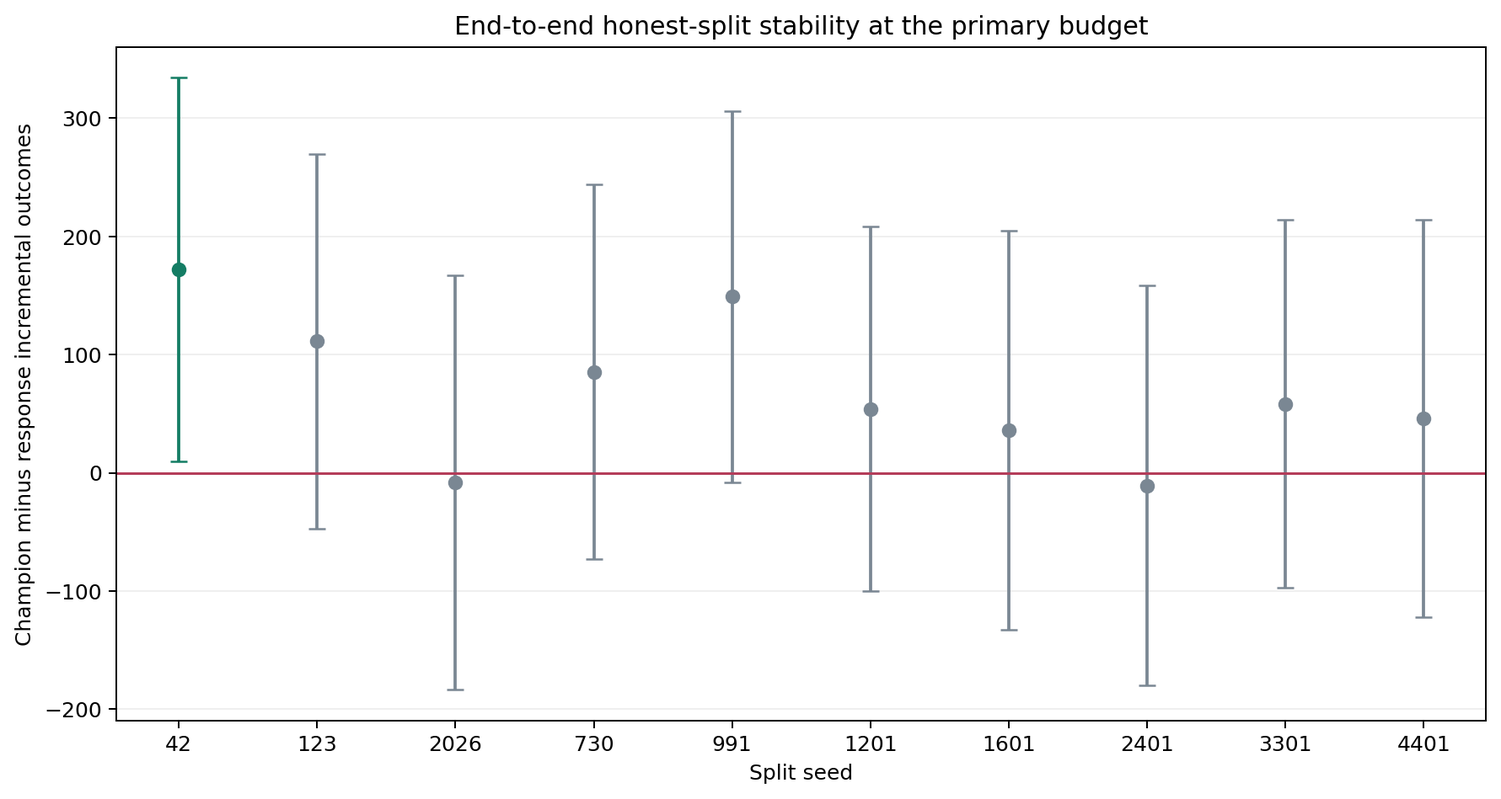
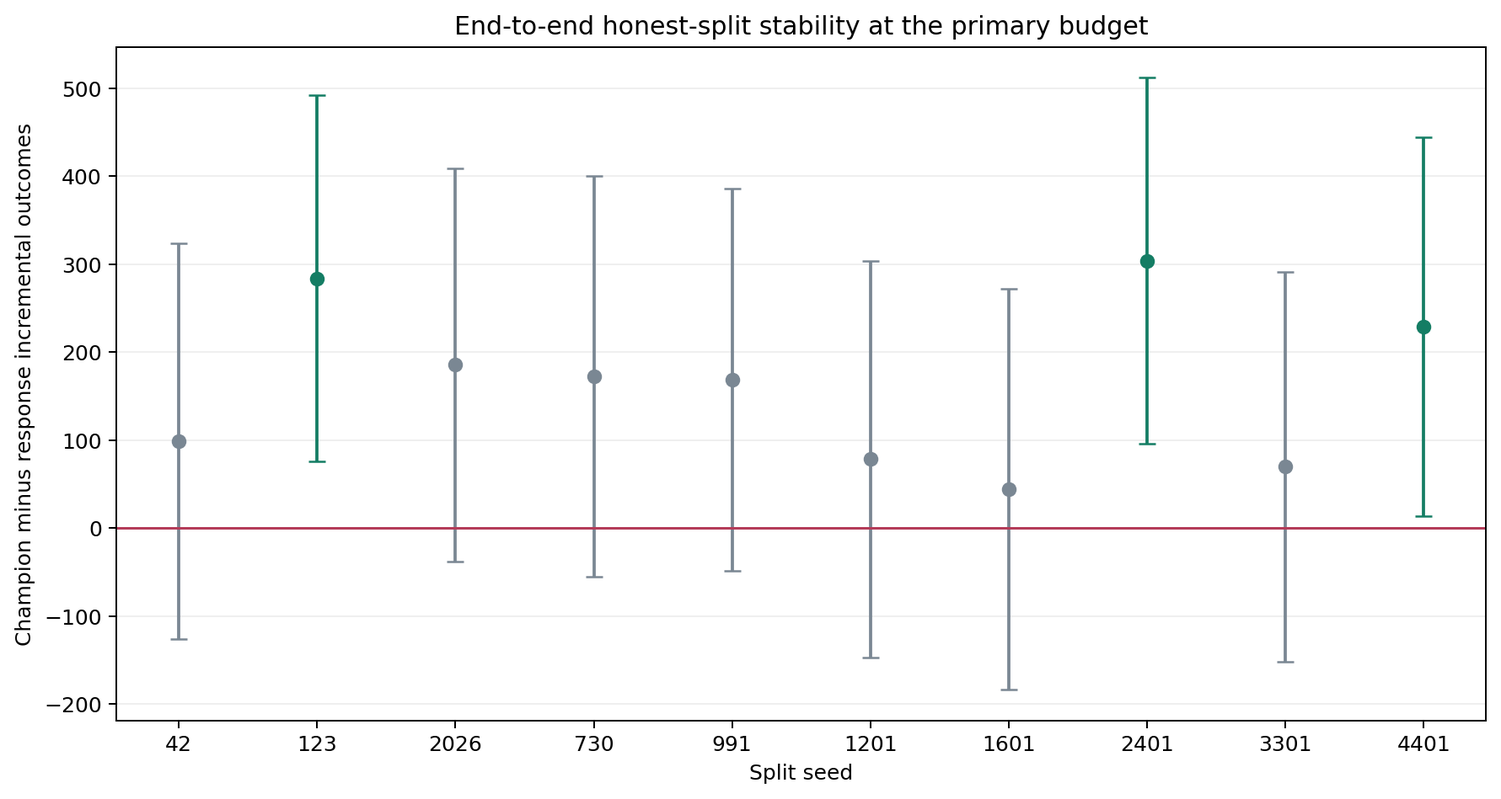
Measure the selection procedure that actually chose the champion
The stability run used a 500k sample with a single validation holdout, giving
it 100,000 selection observations against the 800,000 the headline run selects
on. Selection is the stage under test, so a selection sample eight times
smaller widens every candidate's interval and reports instability that belongs
to the sample size. Rerun on criteo_audit_1m.parquet with three selection
folds, and the picture changes: s_learner wins 8 of 10 instead of 6, never
leaves the top two, every point estimate is positive, and the three runs where
no candidate cleared zero turn out to have been an artifact of the small
selection sample rather than a property of the rule.

The margin between first and second is still about a quarter of the champion's
own half-width, so the earlier conclusion holds: the sample can rank these
candidates without separating them, and the claim belongs to the policy class.

Each result row now carries the sample, model list, budget, row count, and
selection folds that produced it, and --rebuild-report refuses to run against a
table that lacks them. The report could previously be rebuilt from argparse
defaults and would then describe a protocol no run had used.

diff --git a/scripts/run_honest_stability.py b/scripts/run_honest_stability.py
@@ -32,6 +32,16 @@ from src.reporting import dataframe_to_markdown
 DEFAULT_MODELS = "response_model,s_learner"
 
 
+def report(message: str) -> None:
+    """Print progress so it survives redirection to a file.
+
+    A run of this length is normally watched through a log, and Python buffers
+    stdout when it is not a terminal. Without the flush, nothing appears until
+    the process exits, which is exactly when the progress stops being useful.
+    """
+    print(message, flush=True)
+
+
 def parse_args() -> argparse.Namespace:
     parser = argparse.ArgumentParser(
         description=(
@@ -67,11 +77,22 @@ def parse_args() -> argparse.Namespace:
         "--figure-path",
         default="outputs/figures/visit_stability.png",
     )
+    parser.add_argument(
+        "--rebuild-report",
+        action="store_true",
+        help=(
+            "Redraw the report and figure from the saved table without "
+            "repeating the experiment. Changes no number."
+        ),
+    )
     return parser.parse_args()
 
 
 def main() -> None:
     args = parse_args()
+    if args.rebuild_report:
+        rebuild_report(args)
+        return
     seeds = _parse_integers(args.seeds, "seeds")
     budgets = _parse_floats(args.budgets, "budgets")
     factors = _parse_floats(
@@ -89,8 +110,8 @@ def main() -> None:
     factories.update(rare_outcome_model_factories(factors))
 
     rows = []
-    for seed in seeds:
-        print(f"\n=== Honest split seed {seed} ===")
+    for position, seed in enumerate(seeds, start=1):
+        report(f"\n=== Honest split {position}/{len(seeds)}, seed {seed} ===")
         result = run_honest_uplift_experiment(
             dataset,
             model_factories=factories,
@@ -98,7 +119,7 @@ def main() -> None:
             primary_budget=args.primary_budget,
             random_state=seed,
             selection_folds=args.selection_folds,
-            progress=print,
+            progress=report,
         )
         budget_pct = 100.0 * args.primary_budget
         contrast = result.test_contrasts[
@@ -131,10 +152,23 @@ def main() -> None:
                     "response_model", "benchmark_relative_auuc"
                 ],
                 "fit_seconds": result.timing_table["fit_seconds"].sum(),
+                # Carried on every row so the table records the protocol that
+                # produced it. A report rebuilt from the table then describes
+                # the run that happened rather than whatever defaults the
+                # rebuilding command was invoked with.
+                "sample_path": args.sample_path,
+                "models": args.models,
+                "primary_budget": args.primary_budget,
+                "dataset_rows": len(dataset.X),
+                "selection_folds": result.selection_folds,
+                "selection_size": result.selection_size,
             }
         )
 
-    results = pd.DataFrame(rows)
+    write_outputs(args, pd.DataFrame(rows))
+
+
+def summarize_runs(results: pd.DataFrame) -> tuple[pd.DataFrame, pd.DataFrame]:
     champion_frequency = (
         results.groupby("champion", as_index=False)
         .agg(
@@ -160,6 +194,58 @@ def main() -> None:
             }
         ]
     )
+    return summary, champion_frequency
+
+
+PROTOCOL_COLUMNS = (
+    "sample_path",
+    "models",
+    "primary_budget",
+    "dataset_rows",
+    "selection_folds",
+    "selection_size",
+)
+
+
+def rebuild_report(args: argparse.Namespace) -> None:
+    """Rewrite the report and figure from the saved table.
+
+    The experiment behind this table takes hours and its wording is the part
+    most likely to need another pass, so redrawing has to be possible without
+    repeating it. The protocol is read from the table rather than from this
+    invocation: falling back to command-line defaults would let a rebuilt
+    report describe a run that never happened.
+    """
+    results_path = ROOT / args.results_path
+    if not results_path.exists():
+        raise SystemExit(f"No saved results at {results_path}.")
+    results = pd.read_csv(results_path)
+    missing = [name for name in PROTOCOL_COLUMNS if name not in results.columns]
+    if missing:
+        raise SystemExit(
+            f"{results_path.name} does not record its own protocol "
+            f"(missing {', '.join(missing)}), so the report cannot be rebuilt "
+            "from it without guessing. Re-run the experiment instead."
+        )
+    write_outputs(args, results, save_table=False)
+
+
+def write_outputs(
+    args: argparse.Namespace,
+    results: pd.DataFrame,
+    save_table: bool = True,
+) -> None:
+    summary, champion_frequency = summarize_runs(results)
+    first = results.iloc[0]
+    protocol = {
+        "sample_path": str(first["sample_path"]),
+        "models": str(first["models"]),
+        "primary_budget": float(first["primary_budget"]),
+        "dataset_rows": int(first["dataset_rows"]),
+        "selection_folds": int(first["selection_folds"]),
+        "selection_size": int(first["selection_size"]),
+        "seeds": ",".join(str(int(value)) for value in results["seed"]),
+    }
 
     prefix = f"criteo_{args.outcome}_honest_stability"
     results_path = ROOT / (
@@ -174,12 +260,13 @@ def main() -> None:
     )
     for path in (results_path, figure_path, report_path):
         path.parent.mkdir(parents=True, exist_ok=True)
-    results.to_csv(results_path, index=False, encoding="utf-8-sig")
+    if save_table:
+        results.to_csv(results_path, index=False, encoding="utf-8-sig")
     plot_stability(results, figure_path)
     report_path.write_text(
         build_report(
             args,
-            len(dataset.X),
+            protocol,
             results,
             summary,
             champion_frequency,
@@ -188,8 +275,8 @@ def main() -> None:
         ),
         encoding="utf-8",
     )
-    print(f"Stability report: {report_path}")
-    print(summary.to_string(index=False))
+    report(f"Stability report: {report_path}")
+    report(summary.to_string(index=False))
 
 
 def summarize_selection(result, budget_pct: float) -> dict:
@@ -351,42 +438,67 @@ def describe_selection_closeness(results: pd.DataFrame) -> str:
         )
     cleared = _numeric_column(results, "n_candidates_with_positive_bound")
     if not cleared.empty:
-        lines.append(
-            f"- Runs in which no candidate reached a positive selection bound: "
-            f"**{int((cleared == 0).sum())} of {len(cleared)}**. The rule still "
-            f"names a champion in those runs, because it ranks candidates rather "
-            f"than requiring one to clear a bar."
-        )
+        starved = int((cleared == 0).sum())
+        if starved:
+            lines.append(
+                f"- Runs in which no candidate reached a positive selection "
+                f"bound: **{starved} of {len(cleared)}**. The rule names a "
+                f"champion anyway, because it ranks candidates rather than "
+                f"requiring one to clear a bar."
+            )
+        else:
+            lines.append(
+                f"- Every run had at least one candidate clear zero, a median "
+                f"of **{cleared.median():.0f}**. The rule ranks rather than "
+                f"requiring a bar to be cleared, so this is a property of the "
+                f"selection sample rather than something the rule enforces."
+            )
+    always_near_top = False
     if not ranks.empty:
+        top_two = int((ranks <= 2).sum())
+        always_near_top = top_two == len(ranks)
         lines.append(
             f"- `s_learner` finished first or second in "
-            f"**{int((ranks <= 2).sum())} of {len(ranks)}** runs "
+            f"**{top_two} of {len(ranks)}** runs "
             f"(median rank {ranks.median():.0f})."
         )
 
-    if not halfwidths.empty and margins.median() < halfwidths.median():
-        verdict = (
-            "The gap between first and second place is smaller than the "
-            "uncertainty attached to first place itself, so the leaderboard "
-            "reorders under resampling without any candidate being measurably "
-            "better. A changing champion here reflects candidates the selection "
-            "sample cannot separate, and the frequency table should be read as "
-            "a ranking tendency rather than as evidence that one architecture "
-            "wins."
-        )
-    else:
-        verdict = (
+    if halfwidths.empty:
+        return "\n".join(lines)
+    if margins.median() >= halfwidths.median():
+        return "\n".join(lines) + "\n\n" + (
             "The gap between first and second place exceeds the uncertainty "
             "attached to first place, so the changes in champion are not "
             "explained by selection noise alone and the ranking is genuinely "
             "sensitive to the split."
+        )
+
+    verdict = (
+        "The gap between first and second place is smaller than the "
+        "uncertainty attached to first place itself, so no candidate is "
+        "measurably better than the one immediately below it."
+    )
+    if always_near_top:
+        verdict += (
+            f" The ordering is not arbitrary either: `{modal_champion}` never "
+            "leaves the top two. Pairwise gaps inside the noise and a stable "
+            "leader are consistent with each other, and together they say the "
+            "sample can rank these candidates without being able to separate "
+            "them. The defensible claim is about the policy class rather than "
+            "about one architecture."
+        )
+    else:
+        verdict += (
+            " A changing champion here reflects candidates the selection "
+            "sample cannot separate, so the frequency table is a ranking "
+            "tendency rather than evidence that one architecture wins."
         )
     return "\n".join(lines) + "\n\n" + verdict
 
 
 def build_report(
     args,
-    dataset_size: int,
+    protocol: dict,
     results: pd.DataFrame,
     summary: pd.DataFrame,
     champion_frequency: pd.DataFrame,
@@ -394,17 +506,30 @@ def build_report(
     figure_path: Path,
 ) -> str:
     selection_note = describe_selection_closeness(results)
+    folds = int(protocol["selection_folds"])
+    size = int(protocol["selection_size"])
+    selection_description = (
+        f"one explicit validation holdout over `{size:,}` observations"
+        if folds == 1
+        else f"`{folds}`-fold out-of-fold predictions over `{size:,}` observations"
+    )
     return f"""# End-to-End Honest-Split Stability: Criteo {args.outcome}
 
 ## Protocol
 
-- Data: `{args.sample_path}` ({dataset_size:,} rows).
-- Seeds: `{args.seeds}`.
-- Primary budget: `{100.0 * args.primary_budget:.2f}%`.
-- Candidate models: `{args.models}`.
+- Data: `{protocol["sample_path"]}` ({int(protocol["dataset_rows"]):,} rows).
+- Seeds: `{protocol["seeds"]}`.
+- Primary budget: `{100.0 * float(protocol["primary_budget"]):.2f}%`.
+- Candidate models: `{protocol["models"]}`.
+- Selection: {selection_description}.
 - Every run repeats training, out-of-sample model selection, development
   refitting, nuisance estimation, and locked-test evaluation.
 - Each run uses the same pre-specified candidate set and selection rule.
+
+The selection stage is the one being measured, so it has to match the run that
+produced the headline champion. A smaller selection sample widens every
+candidate's interval, which would show up here as instability that belongs to
+the sample size rather than to the rule.
 
 ## Aggregate Stability
 

diff --git a/outputs/visit_stability.md b/outputs/visit_stability.md
@@ -2,53 +2,57 @@
 
 ## Protocol
 
-- Data: `data/processed/criteo_sample_500k.parquet` (500,000 rows).
+- Data: `data/processed/criteo_audit_1m.parquet` (1,000,000 rows).
 - Seeds: `42,123,2026,730,991,1201,1601,2401,3301,4401`.
 - Primary budget: `5.00%`.
 - Candidate models: `response_model,s_learner,t_learner,x_learner,cvt,transformed_outcome,r_learner,dr_learner`.
+- Selection: `3`-fold out-of-fold predictions over `800,000` observations.
 - Every run repeats training, out-of-sample model selection, development
   refitting, nuisance estimation, and locked-test evaluation.
 - Each run uses the same pre-specified candidate set and selection rule.
+
+The selection stage is the one being measured, so it has to match the run that
+produced the headline champion. A smaller selection sample widens every
+candidate's interval, which would show up here as instability that belongs to
+the sample size rather than to the rule.
 
 ## Aggregate Stability
 
 | runs | mean_difference | std_difference | min_difference | max_difference | positive_point_rate | positive_ci_rate | negative_ci_rate |
 | ---- | --------------- | -------------- | -------------- | -------------- | ------------------- | ---------------- | ---------------- |
-| 10   | 69.235452       | 60.876559      | -10.816453     | 171.818011     | 0.800000            | 0.100000         | 0.000000         |
+| 10   | 163.426174      | 90.304500      | 44.232281      | 303.799070     | 1.000000            | 0.300000         | 0.000000         |
 
 ## Champion Frequency
 
-| champion            | runs | mean_difference | positive_rate |
-| ------------------- | ---- | --------------- | ------------- |
-| s_learner           | 6    | 57.625832       | 0.666667      |
-| transformed_outcome | 2    | 71.701318       | 1.000000      |
-| x_learner           | 1    | 149.124736      | 1.000000      |
-| dr_learner          | 1    | 54.072150       | 1.000000      |
+| champion   | runs | mean_difference | positive_rate |
+| ---------- | ---- | --------------- | ------------- |
+| s_learner  | 8    | 183.176450      | 1.000000      |
+| dr_learner | 2    | 84.425072       | 1.000000      |
 
 ## How Close Was Each Selection
 
-- Median margin between the champion and the runner-up: `32.0` incremental outcomes.
-- Runs where `s_learner` was not selected: **4 of 10**.
-- Median half-width of the champion's own selection interval: `163.7`. The margin is `0.20` times that width.
-- Runs in which no candidate reached a positive selection bound: **3 of 10**. The rule still names a champion in those runs, because it ranks candidates rather than requiring one to clear a bar.
-- `s_learner` finished first or second in **7 of 10** runs (median rank 1).
+- Median margin between the champion and the runner-up: `99.8` incremental outcomes.
+- Runs where `s_learner` was not selected: **2 of 10**.
+- Median half-width of the champion's own selection interval: `443.4`. The margin is `0.23` times that width.
+- Every run had at least one candidate clear zero, a median of **6**. The rule ranks rather than requiring a bar to be cleared, so this is a property of the selection sample rather than something the rule enforces.
+- `s_learner` finished first or second in **10 of 10** runs (median rank 1).
 
-The gap between first and second place is smaller than the uncertainty attached to first place itself, so the leaderboard reorders under resampling without any candidate being measurably better. A changing champion here reflects candidates the selection sample cannot separate, and the frequency table should be read as a ranking tendency rather than as evidence that one architecture wins.
+The gap between first and second place is smaller than the uncertainty attached to first place itself, so no candidate is measurably better than the one immediately below it. The ordering is not arbitrary either: `s_learner` never leaves the top two. Pairwise gaps inside the noise and a stable leader are consistent with each other, and together they say the sample can rank these candidates without being able to separate them. The defensible claim is about the policy class rather than about one architecture.
 
 ## Results by Split
 
-| seed | champion            | runner_up           | selection_margin | champion_selection_ci_lower | runner_up_selection_ci_lower | champion_selection_halfwidth | n_candidates_with_positive_bound | s_learner_selection_rank | difference_vs_response | ci_lower    | ci_upper   | champion_incremental_outcome | response_incremental_outcome | champion_auuc | response_auuc | fit_seconds |
-| ---- | ------------------- | ------------------- | ---------------- | --------------------------- | ---------------------------- | ---------------------------- | -------------------------------- | ------------------------ | ---------------------- | ----------- | ---------- | ---------------------------- | ---------------------------- | ------------- | ------------- | ----------- |
-| 42   | s_learner           | r_learner           | 25.586870        | 35.350220                   | 9.763350                     | 167.614987                   | 2                                | 1                        | 171.818011             | 9.287822    | 334.348201 | 499.147930                   | 327.329918                   | 0.009656      | 0.008810      | 223.066658  |
-| 123  | s_learner           | x_learner           | 3.294823         | -69.338211                  | -72.633035                   | 169.632815                   | 0                                | 1                        | 111.294755             | -47.157707  | 269.747218 | 455.290688                   | 343.995932                   | 0.008762      | 0.008686      | 128.288874  |
-| 2026 | s_learner           | transformed_outcome | 68.352085        | 22.325228                   | -46.026858                   | 178.228599                   | 1                                | 1                        | -8.241500              | -183.457789 | 166.974789 | 450.871741                   | 459.113241                   | 0.008648      | 0.008995      | 129.021052  |
-| 730  | transformed_outcome | dr_learner          | 47.190695        | -16.951243                  | -64.141937                   | 160.239724                   | 0                                | 3                        | 85.284776              | -73.012979  | 243.582530 | 423.232921                   | 337.948146                   | 0.008975      | 0.008946      | 122.743778  |
-| 991  | x_learner           | s_learner           | 14.477859        | -61.028969                  | -75.506828                   | 162.903318                   | 0                                | 2                        | 149.124736             | -7.870575   | 306.120048 | 346.572679                   | 197.447943                   | 0.008036      | 0.008481      | 77.165413   |
-| 1201 | dr_learner          | x_learner           | 0.518596         | 39.210970                   | 38.692375                    | 155.836075                   | 5                                | 5                        | 54.072150              | -99.911692  | 208.055993 | 378.581729                   | 324.509579                   | 0.008158      | 0.008342      | 83.472002   |
-| 1601 | s_learner           | r_learner           | 32.404664        | 38.949711                   | 6.545047                     | 151.087060                   | 2                                | 1                        | 36.075967              | -132.593529 | 204.745462 | 336.396354                   | 300.320387                   | 0.008828      | 0.008293      | 63.456410   |
-| 2401 | s_learner           | dr_learner          | 31.564764        | 9.742574                    | -21.822190                   | 165.621482                   | 1                                | 1                        | -10.816453             | -179.798753 | 158.165846 | 434.843106                   | 445.659559                   | 0.007652      | 0.008396      | 65.008810   |
-| 3301 | transformed_outcome | dr_learner          | 54.826029        | 83.846362                   | 29.020333                    | 159.384172                   | 3                                | 5                        | 58.117860              | -97.539924  | 213.775644 | 399.731745                   | 341.613885                   | 0.009269      | 0.008690      | 69.585575   |
-| 4401 | s_learner           | t_learner           | 52.908189        | 152.492588                  | 99.584399                    | 164.483677                   | 4                                | 1                        | 45.624212              | -122.386857 | 213.635281 | 460.021639                   | 414.397427                   | 0.008889      | 0.008841      | 72.486649   |
+| seed | champion   | runner_up           | selection_margin | champion_selection_ci_lower | runner_up_selection_ci_lower | champion_selection_halfwidth | n_candidates_with_positive_bound | s_learner_selection_rank | difference_vs_response | ci_lower    | ci_upper   | champion_incremental_outcome | response_incremental_outcome | champion_auuc | response_auuc | fit_seconds | sample_path                            | models                                                                                    | primary_budget | dataset_rows | selection_folds | selection_size |
+| ---- | ---------- | ------------------- | ---------------- | --------------------------- | ---------------------------- | ---------------------------- | -------------------------------- | ------------------------ | ---------------------- | ----------- | ---------- | ---------------------------- | ---------------------------- | ------------- | ------------- | ----------- | -------------------------------------- | ----------------------------------------------------------------------------------------- | -------------- | ------------ | --------------- | -------------- |
+| 42   | dr_learner | s_learner           | 98.397541        | 467.330268                  | 368.932727                   | 441.715877                   | 6                                | 2                        | 98.933323              | -126.153108 | 324.019753 | 997.813896                   | 898.880573                   | 0.009126      | 0.009990      | 688.069058  | data/processed/criteo_audit_1m.parquet | response_model,s_learner,t_learner,x_learner,cvt,transformed_outcome,r_learner,dr_learner | 0.050000       | 1000000      | 3               | 800000         |
+| 123  | s_learner  | r_learner           | 354.105269       | 437.014044                  | 82.908775                    | 419.247834                   | 5                                | 1                        | 283.727273             | 75.586959   | 491.867586 | 840.199626                   | 556.472353                   | 0.009465      | 0.009549      | 592.728204  | data/processed/criteo_audit_1m.parquet | response_model,s_learner,t_learner,x_learner,cvt,transformed_outcome,r_learner,dr_learner | 0.050000       | 1000000      | 3               | 800000         |
+| 2026 | s_learner  | x_learner           | 268.744443       | 497.588514                  | 228.844072                   | 446.365246                   | 4                                | 1                        | 185.347109             | -38.001827  | 408.696045 | 788.107235                   | 602.760125                   | 0.009954      | 0.009809      | 538.462950  | data/processed/criteo_audit_1m.parquet | response_model,s_learner,t_learner,x_learner,cvt,transformed_outcome,r_learner,dr_learner | 0.050000       | 1000000      | 3               | 800000         |
+| 730  | s_learner  | dr_learner          | 80.364570        | 444.547615                  | 364.183046                   | 450.770590                   | 6                                | 1                        | 172.514826             | -55.321987  | 400.351639 | 885.666318                   | 713.151492                   | 0.009787      | 0.010028      | 579.035010  | data/processed/criteo_audit_1m.parquet | response_model,s_learner,t_learner,x_learner,cvt,transformed_outcome,r_learner,dr_learner | 0.050000       | 1000000      | 3               | 800000         |
+| 991  | s_learner  | x_learner           | 60.288044        | 479.735373                  | 419.447329                   | 430.613248                   | 6                                | 1                        | 168.694074             | -48.764286  | 386.152434 | 794.137218                   | 625.443144                   | 0.009757      | 0.009964      | 469.689966  | data/processed/criteo_audit_1m.parquet | response_model,s_learner,t_learner,x_learner,cvt,transformed_outcome,r_learner,dr_learner | 0.050000       | 1000000      | 3               | 800000         |
+| 1201 | s_learner  | dr_learner          | 133.177700       | 490.044329                  | 356.866630                   | 449.102927                   | 6                                | 1                        | 78.313221              | -146.852886 | 303.479328 | 904.562190                   | 826.248968                   | 0.009763      | 0.009982      | 359.001110  | data/processed/criteo_audit_1m.parquet | response_model,s_learner,t_learner,x_learner,cvt,transformed_outcome,r_learner,dr_learner | 0.050000       | 1000000      | 3               | 800000         |
+| 1601 | s_learner  | transformed_outcome | 202.447736       | 565.178162                  | 362.730425                   | 445.155186                   | 5                                | 1                        | 44.232281              | -183.647401 | 272.111963 | 772.469094                   | 728.236813                   | 0.009714      | 0.009792      | 429.861926  | data/processed/criteo_audit_1m.parquet | response_model,s_learner,t_learner,x_learner,cvt,transformed_outcome,r_learner,dr_learner | 0.050000       | 1000000      | 3               | 800000         |
+| 2401 | s_learner  | transformed_outcome | 101.282574       | 263.129656                  | 161.847082                   | 433.026443                   | 6                                | 1                        | 303.799070             | 95.486028   | 512.112112 | 871.134462                   | 567.335392                   | 0.009532      | 0.009735      | 239.204384  | data/processed/criteo_audit_1m.parquet | response_model,s_learner,t_learner,x_learner,cvt,transformed_outcome,r_learner,dr_learner | 0.050000       | 1000000      | 3               | 800000         |
+| 3301 | dr_learner | s_learner           | 52.286765        | 515.875629                  | 463.588864                   | 430.597358                   | 6                                | 2                        | 69.916821              | -151.537777 | 291.371419 | 847.237460                   | 777.320640                   | 0.009073      | 0.009795      | 267.545682  | data/processed/criteo_audit_1m.parquet | response_model,s_learner,t_learner,x_learner,cvt,transformed_outcome,r_learner,dr_learner | 0.050000       | 1000000      | 3               | 800000         |
+| 4401 | s_learner  | dr_learner          | 9.510515         | 376.859259                  | 367.348744                   | 446.843664                   | 5                                | 1                        | 228.783745             | 13.601290   | 443.966199 | 981.787865                   | 753.004120                   | 0.010008      | 0.010015      | 236.688966  | data/processed/criteo_audit_1m.parquet | response_model,s_learner,t_learner,x_learner,cvt,transformed_outcome,r_learner,dr_learner | 0.050000       | 1000000      | 3               | 800000         |
 
 ![Honest-split stability](figures/visit_stability.png)
 
